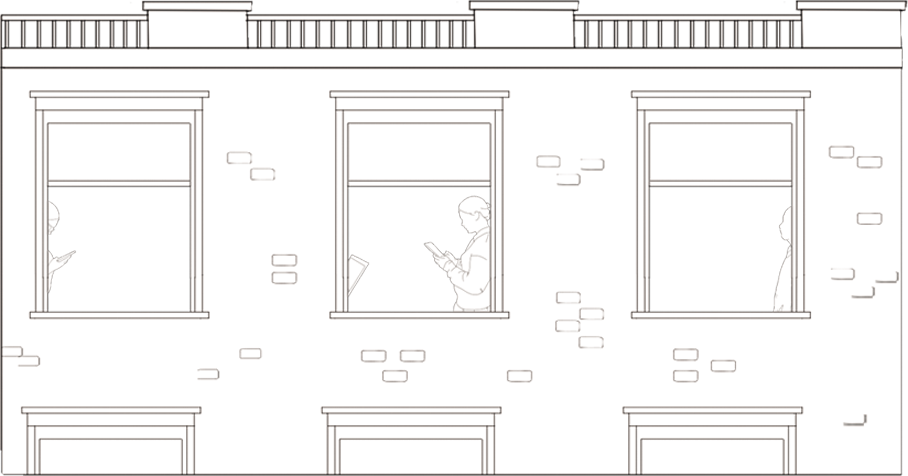
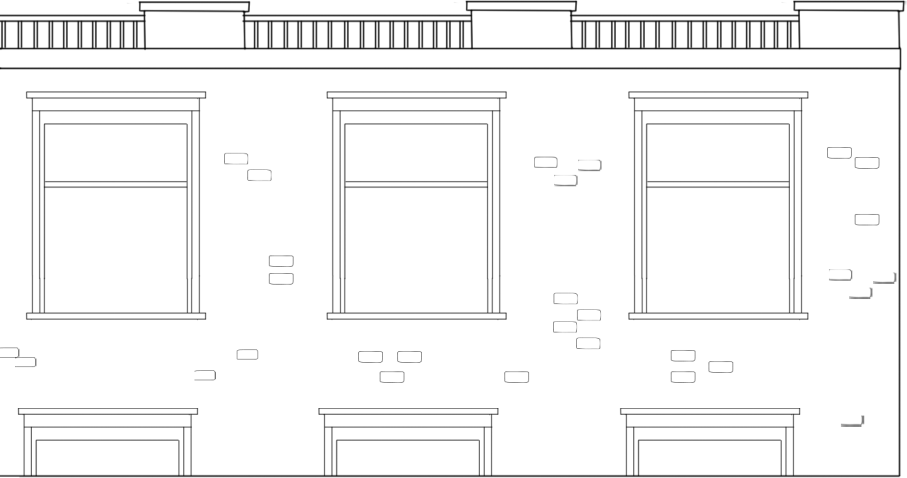
contact page animations

diff --git a/resources/js/Framework/Components/Page/Contact.js b/resources/js/Framework/Components/Page/Contact.js
@@ -1,9 +1,10 @@
 import BasePage from '~/Framework/Components/Page/BasePage';
-
 import Validator from '~/Framework/Managers/Validator';
 
 import EmailCollaborate from '~/Application/Services/EmailCollaborate';
 import EmailCollaborateRequest from '~/Application/Services/EmailCollaborate/Requests';
+
+import {toDataURL} from '~/Framework/Helpers';
 
 class ContactPage extends BasePage {
 
@@ -24,6 +25,13 @@ class ContactPage extends BasePage {
 
         this.fbIsShown = false;
 
+        this.submitBtn = '#submitBtn';
+
+        this.form = '[data-form]';
+
+        this.bldgImg = 'img#bldg';
+        this.bldgContainer = '#bldgContainer';
+        this.bldgAnimated = 'img#bldgAnimated';
     }
 
     onload() {
@@ -35,19 +43,40 @@ class ContactPage extends BasePage {
 
         this.initValidator();
         this.initMessenger();
+        this.initGraphics();
     }
 
     initValidator() {
 
         
-        this.validator = new Validator('[data-form]');
+        this.validator = new Validator(this.form);
 
-        $('body').on('submit', '[data-form]', this.onSubmit.bind(this));
+        $('body').on('submit', this.form, this.onSubmit.bind(this));
         
+    }
+
+    initGraphics() {
+        $(this.bldgAnimated).hide();
+        
+        $(this.bldgContainer)
+            .mouseenter(() => {
+                $(this.bldgImg).hide();
+                $(this.bldgAnimated).show();
+            })
+            .mouseleave(() => {
+                $(this.bldgImg).show();
+                $(this.bldgAnimated).hide();
+            })
+
     }
 
     onSubmit(e) {
         e.preventDefault();
+
+        $(this.submitBtn).css('backgroundImage', `url("${asset_path}images/contact-us/sending.gif")`);
+        
+        $(`${this.form} button, ${this.form} input, ${this.form} select, ${this.form} textfield`).prop('disabled');  
+
         if(this.validator.check()) {
             //has no errors 
             let request = new EmailCollaborateRequest(this.validator.data.toValidatorData());
@@ -59,10 +88,25 @@ class ContactPage extends BasePage {
                         $('[data-form]')[0].reset();
                         this.validator.resetValidations();
 
-                        $('[data-modal=sent-modal]').modal();
+                        let img = document.createElement('img');
+                        img.src = `${asset_path}images/contact-us/sent.gif?x=` + new Date().getTime();
+                        img.onload = () => {
+                            $(this.submitBtn).css('backgroundImage', "url("+img.src+")")
+                            //reset
+                            setTimeout(() => {
+                                $(this.submitBtn).css('backgroundImage', "")
+                                $('[data-modal=sent-modal]').modal();
+                            }, 1500);
+                        }
+                        $(img);
+                        
 
                     }
                     
+                }).finally(() => {
+
+                    $(`${this.form} button, ${this.form} input, ${this.form} select, ${this.form} textfield`).prop('disabled', false);  
+
                 })
         }
     }

diff --git a/resources/pages/contact.html b/resources/pages/contact.html
@@ -2,7 +2,11 @@
    
   <div class="contact-page">
     <section>
-      <img src="<%= __ASSETS_PATH__ %>images/contact-us/bldg.png">
+      <div id="bldgContainer">
+          <img id="bldg" src="<%= __ASSETS_PATH__ %>images/contact-us/bldg.png">
+          <img id="bldgAnimated" src="<%= __ASSETS_PATH__ %>images/contact-us/bldg.gif">
+      </div>
+      
       <div class="address">
         <p>6/F The Community Building</p>
         <p>Metropoli Dr., Metropoli Residenza Brgy. Bagumbayan, (Libis) Q.C 1110 Philippines</p>
@@ -39,7 +43,7 @@
         <div class="form-group">
           <textarea name="message" placeholder="Please write your message here" rows="8"></textarea>
         </div>
-        <button type="submit" class="btn-img" style="background-image: url('<%= __ASSETS_PATH__ %>images/contact-us/submit.png');">Send us your brew!</button>
+        <button id="submitBtn" type="submit" class="btn-img">Send us your brew!</button>
       </form>
 
       <button id="fbChatBtn" class="btn-secondary messenge btn-img" style="background-image: url('<%= __ASSETS_PATH__ %>images/logo/ms.svg');">Chat with us</button>

diff --git a/resources/js/Framework/Components/ExpedioGraphic/Mobile.js b/resources/js/Framework/Components/ExpedioGraphic/Mobile.js
@@ -1,4 +1,6 @@
 import BaseExpedioGraphic from './';
+import {toDataURL} from '~/Framework/Helpers';
+
 
 class MobileExpedioGraphic extends BaseExpedioGraphic {
 
@@ -14,7 +16,7 @@ class MobileExpedioGraphic extends BaseExpedioGraphic {
             expedio.expedio_elements_loaded ++;
         }
         
-        this.toDataURL(this.imgPath+'.gif', (r) => {
+        toDataURL(this.imgPath+'.gif', (r) => {
             animatedImg.setAttribute('src', r);
         })
 
@@ -29,21 +31,6 @@ class MobileExpedioGraphic extends BaseExpedioGraphic {
         this.$animated.css('pointer-events','none');
         this.$animated.css('zIndex', this.zIndex);
     }
-
-    toDataURL(url, callback) {
-        var xhr = new XMLHttpRequest();
-        xhr.onload = function () {
-            var reader = new FileReader();
-            reader.onloadend = function () {
-                callback(reader.result);
-            }
-            reader.readAsDataURL(xhr.response);
-        };
-        xhr.open('GET', url);
-        xhr.responseType = 'blob';
-        xhr.send();
-    }
-
 
     click(e) {
 

diff --git a/resources/js/Framework/Helpers/index.js b/resources/js/Framework/Helpers/index.js
@@ -156,6 +156,20 @@ let isMobile = () => {
     return (/Android|webOS|iPhone|iPad|iPod|BlackBerry|IEMobile|Opera Mini/i.test(navigator.userAgent));
 }
 
+let toDataURL = (url, callback) => {
+    var xhr = new XMLHttpRequest();
+    xhr.onload = function () {
+        var reader = new FileReader();
+        reader.onloadend = function () {
+            callback(reader.result);
+        }
+        reader.readAsDataURL(xhr.response);
+    };
+    xhr.open('GET', url);
+    xhr.responseType = 'blob';
+    xhr.send();
+}
+
 export {
     isUndefined,
     each,
@@ -172,5 +186,6 @@ export {
     objFetchByKey,
     debounce,
     setWindowVar,
-    isMobile
+    isMobile,
+    toDataURL
 };

diff --git a/resources/scss/pages/_contact.scss b/resources/scss/pages/_contact.scss
@@ -81,3 +81,7 @@
   }
 
 }
+
+#submitBtn{ 
+  background-image: url('../assets/images/contact-us/submit.png');
+}
